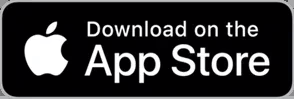
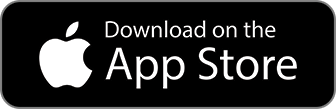
스토어 배지 교체 + Notice 줄바꿈 + 브라우저 언어 감지
- 앱스토어/구글플레이 배지 이미지 교체
- Notice 텍스트 다음 줄로 분리
- 기본 영어, 한국어 브라우저만 한국어 표시
- localStorage에 저장된 언어 우선 적용

diff --git a/index.html b/index.html
@@ -603,8 +603,8 @@
     </div>
     <div class="prob-notice">
       <strong class="ko">안내사항</strong><strong class="en">Notice</strong>
-      <span class="ko">- 소환 레벨은 소환 횟수에 따라 자동으로 상승합니다.<br>- 각 등급 내 개별 아이템은 동일한 확률로 획득됩니다.</span>
-      <span class="en">- Summon level increases automatically with more summons.<br>- Individual items within each tier have equal drop rates.</span>
+      <span class="ko"><br>- 소환 레벨은 소환 횟수에 따라 자동으로 상승합니다.<br>- 각 등급 내 개별 아이템은 동일한 확률로 획득됩니다.</span>
+      <span class="en"><br>- Summon level increases automatically with more summons.<br>- Individual items within each tier have equal drop rates.</span>
     </div>
   </div>
 
@@ -862,6 +862,26 @@ document.querySelectorAll('.lang-option').forEach(opt=>{
     document.getElementById('searchInput').placeholder=lang==='ko'?'검색어를 입력하세요 (예: 계정, 결제, 쿠폰)':'Search (e.g. account, payment, coupon)';
   });
 });
+
+// ── Auto Language Detection ──
+(function(){
+  const saved=localStorage.getItem('helpLang');
+  if(saved){
+    if(saved==='ko') document.body.classList.remove('lang-en');
+    else document.body.classList.add('lang-en');
+  } else {
+    const isKo=navigator.language&&navigator.language.startsWith('ko');
+    if(!isKo) document.body.classList.add('lang-en');
+  }
+  const isEn=document.body.classList.contains('lang-en');
+  document.getElementById('langLabel').textContent=isEn?'English':'한국어';
+  document.querySelectorAll('.lang-option').forEach(o=>{
+    const match=(o.dataset.lang==='en'&&isEn)||(o.dataset.lang==='ko'&&!isEn);
+    o.classList.toggle('active',match);
+    o.querySelector('.ck').textContent=match?'✓':'';
+  });
+  document.getElementById('searchInput').placeholder=isEn?'Search (e.g. account, payment, coupon)':'검색어를 입력하세요 (예: 계정, 결제, 쿠폰)';
+})();
 
 // ── Scroll Top ──
 const stb=document.getElementById('scrollTop');
